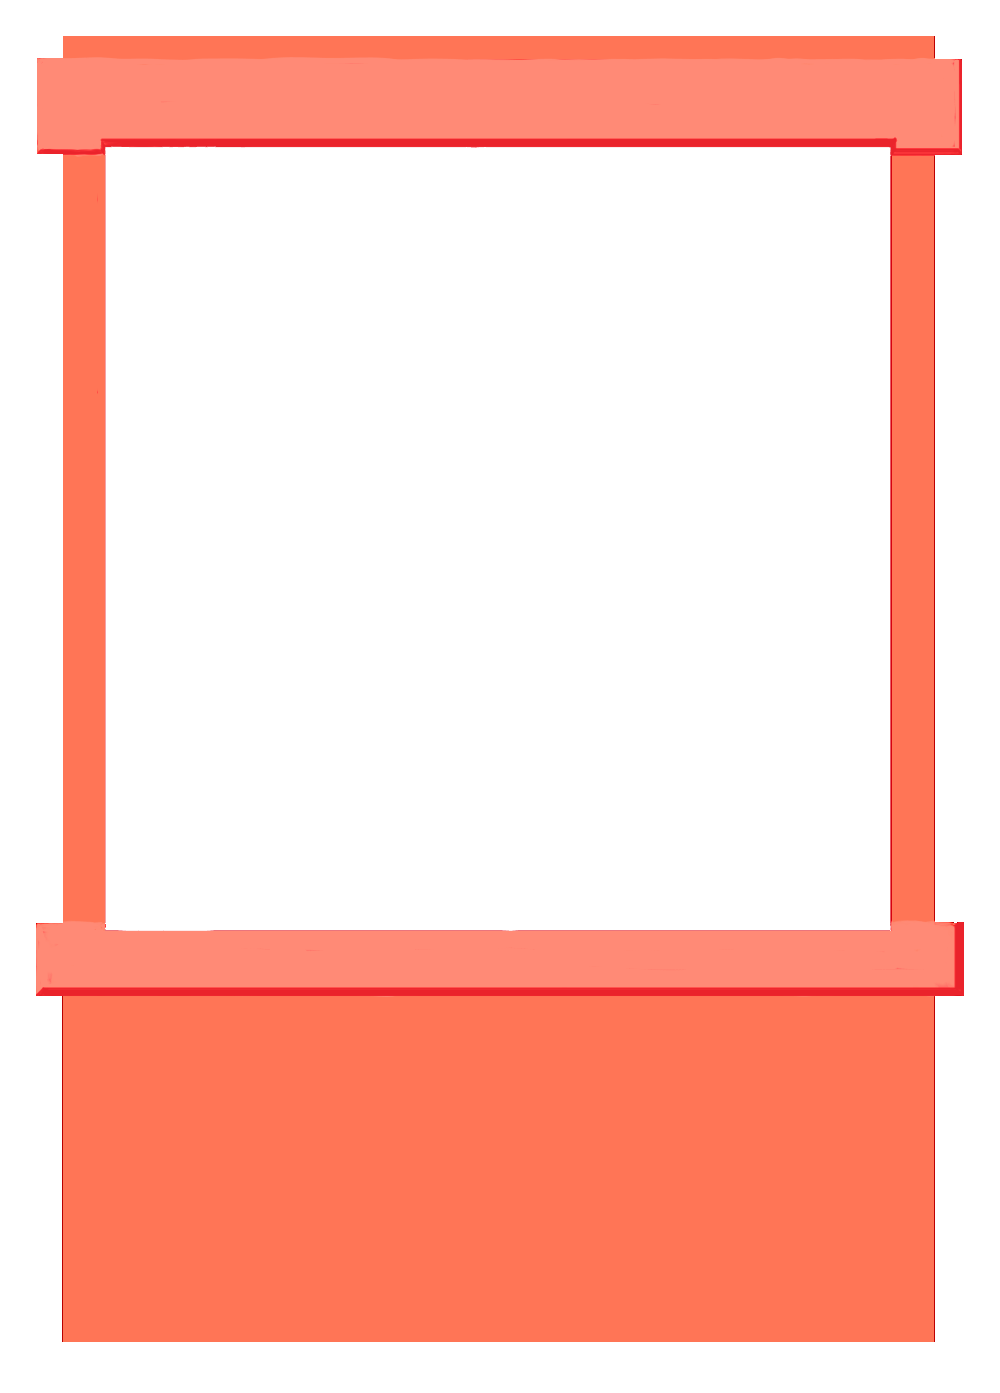
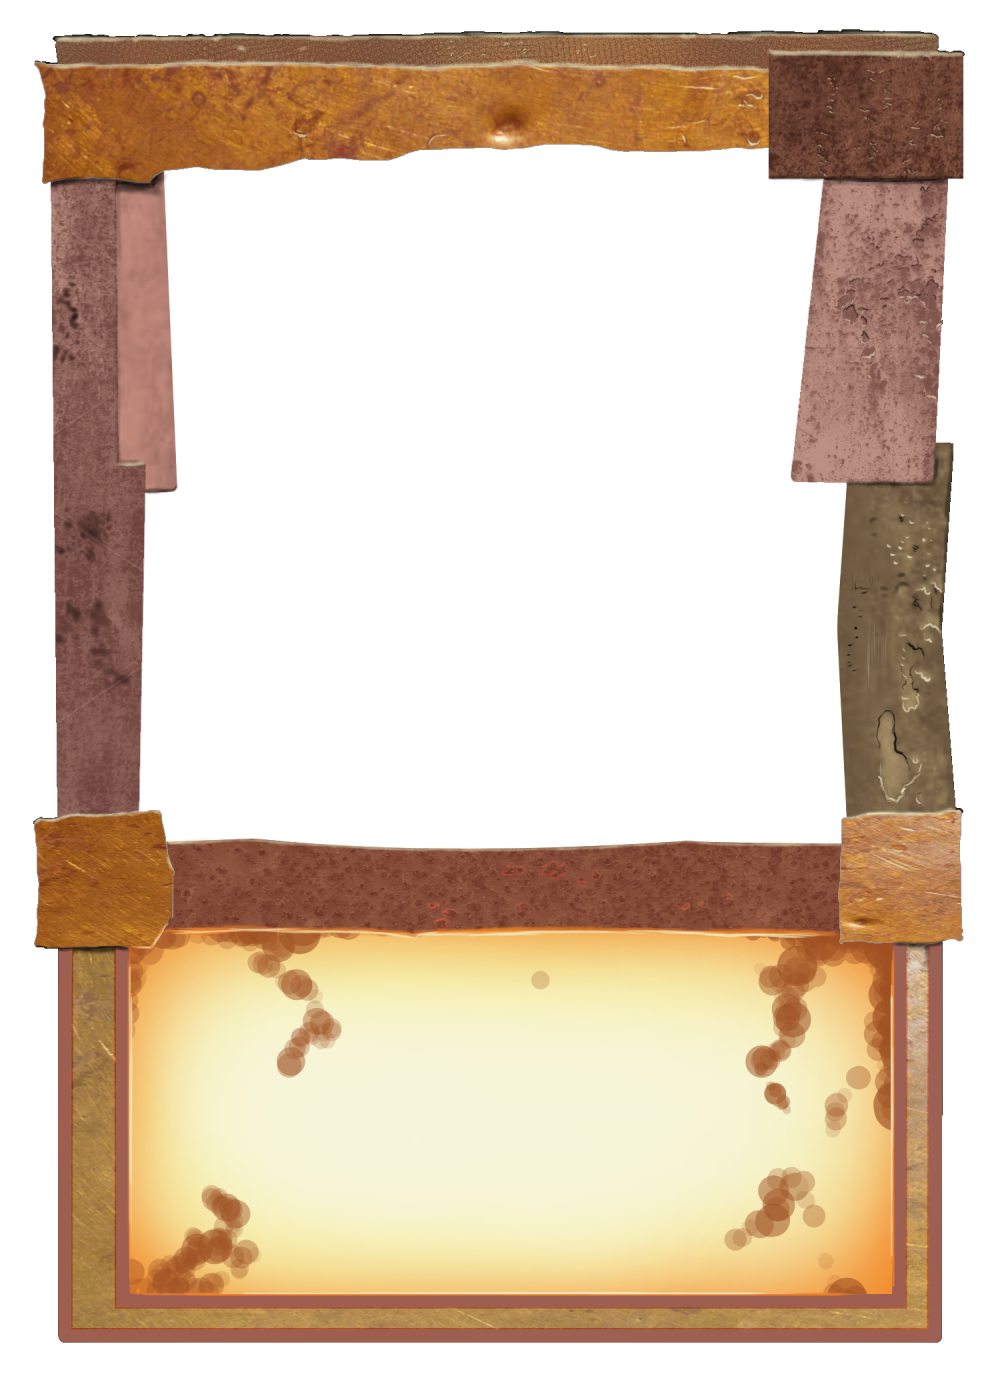
sidereal veiled cards, formatting fixes

diff --git a/priv/static/assets/app.css b/priv/static/assets/app.css
@@ -1930,6 +1930,10 @@ a:hover{
   margin-top: 3rem;
 }
 
+.mr-3{
+  margin-right: 0.75rem;
+}
+
 .ml-8{
   margin-left: 2rem;
 }
@@ -1968,10 +1972,6 @@ a:hover{
 
 .mb-5{
   margin-bottom: 1.25rem;
-}
-
-.mr-3{
-  margin-right: 0.75rem;
 }
 
 .block{
@@ -2283,17 +2283,17 @@ a:hover{
   cursor: help;
 }
 
+.cursor-grab{
+  cursor: -webkit-grab;
+  cursor: grab;
+}
+
 .cursor-not-allowed{
   cursor: not-allowed;
 }
 
 .cursor-move{
   cursor: move;
-}
-
-.cursor-grab{
-  cursor: -webkit-grab;
-  cursor: grab;
 }
 
 .touch-manipulation{
@@ -3865,6 +3865,16 @@ a:hover{
 @font-face {
   font-family: "Pellucid Gnosis";
 
+  src: url("/fonts/NotoSans-VariableFont_wdth,wght.ttf") format("truetype");
+
+  font-weight: normal;
+
+  font-style: normal;
+}
+
+@font-face {
+  font-family: "Pellucid Gnosis";
+
   src: url("/fonts/NotoSans-Italic-VariableFont_wdth,wght.ttf") format("truetype");
 
   font-weight: normal;
@@ -4227,6 +4237,10 @@ body{
 
 .post-ic-content-icecylee p:first-of-type {
   display: inline;
+}
+
+.post-ic-content-icecylee p.post-ic-possessive:first-of-type {
+  margin-left: -0.3em;
 }
 
 .post-ic-content-icecylee li {
@@ -7088,20 +7102,12 @@ input[type=range].slider-purple::-moz-range-progress {
 }
 
 @media (min-width: 768px){
-  .md\:mb-4{
-    margin-bottom: 1rem;
-  }
-
   .md\:grid-cols-2{
     grid-template-columns: repeat(2, minmax(0, 1fr));
   }
 
   .md\:grid-cols-4{
     grid-template-columns: repeat(4, minmax(0, 1fr));
-  }
-
-  .md\:flex-row{
-    flex-direction: row;
   }
 }
 
@@ -7139,10 +7145,6 @@ input[type=range].slider-purple::-moz-range-progress {
 
   .lg\:mb-0{
     margin-bottom: 0px;
-  }
-
-  .lg\:mb-4{
-    margin-bottom: 1rem;
   }
 
   .lg\:block{

diff --git a/assets/css/fonts.css b/assets/css/fonts.css
@@ -31,6 +31,13 @@
 
 @font-face {
     font-family: "Pellucid Gnosis";
+    src: url('/fonts/NotoSans-VariableFont_wdth,wght.ttf') format('truetype');
+    font-weight: normal;
+    font-style: normal;
+}
+
+@font-face {
+    font-family: "Pellucid Gnosis";
     src: url('/fonts/NotoSans-Italic-VariableFont_wdth,wght.ttf') format('truetype');
     font-weight: normal;
     font-style: italic;

diff --git a/assets/css/app.scss b/assets/css/app.scss
@@ -186,6 +186,10 @@ body {
     display: inline;
 }
 
+.post-ic-content-icecylee p.post-ic-possessive:first-of-type {
+    margin-left: -0.3em;
+}
+
 .post-ic-content-icecylee li {
     list-style: inside;
 }